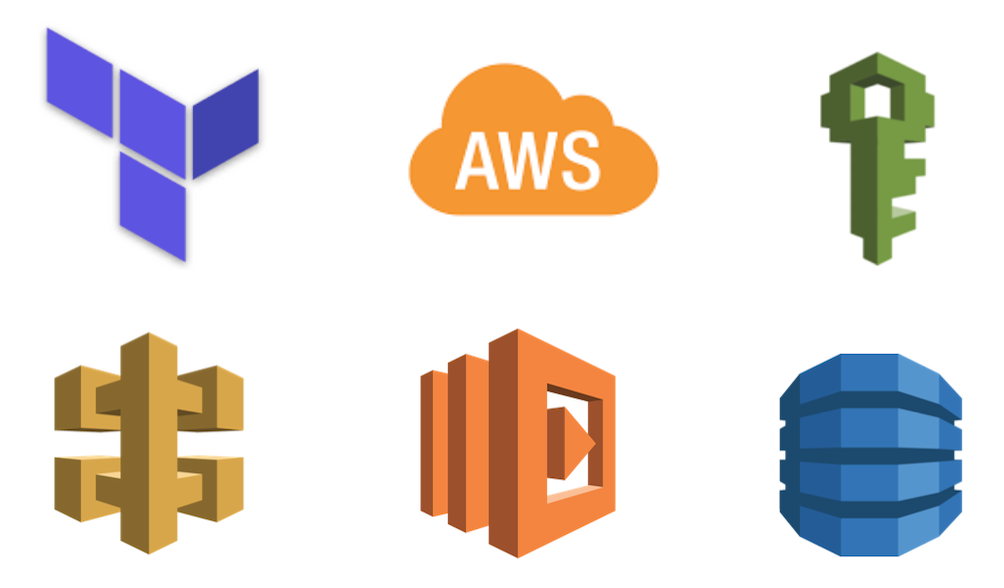
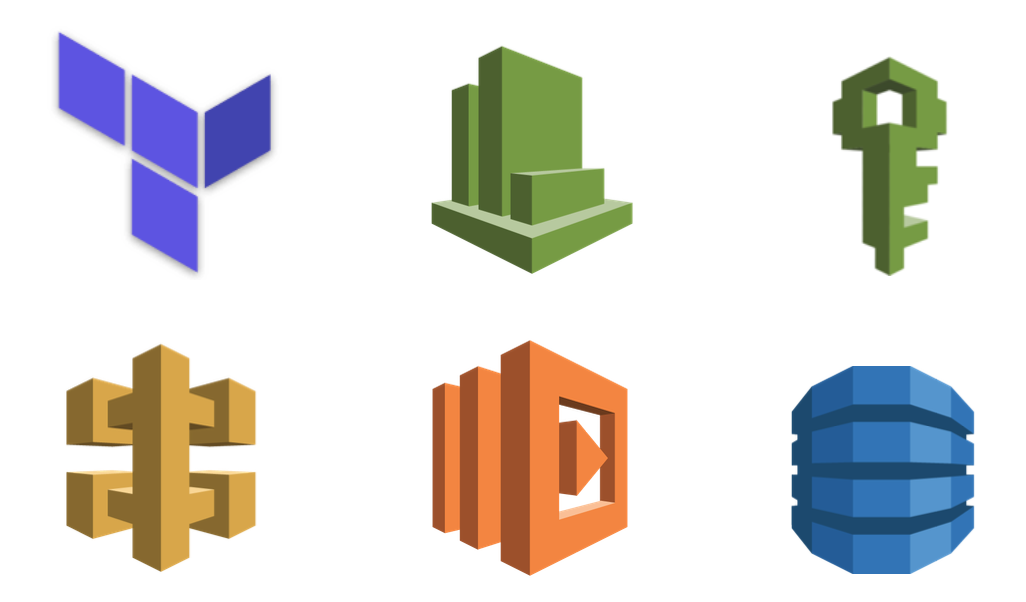
Update featured-image and IaC intro + add POST body

diff --git a/_posts/2019-01-14-Infrastructure-as-code-with-terraform-and-aws-serverless.md b/_posts/2019-01-14-Infrastructure-as-code-with-terraform-and-aws-serverless.md
@@ -31,9 +31,19 @@ And you just defined all of that infrastructure using IaC.
 
 > IaC is a key practice of DEVOPS teams and integrates as part of the CI/CD pipeline.
 
+A great Infrastructure as Code tool is Terraform by HashiCorp.
+([https://www.terraform.io/](https://www.terraform.io/){:target="_blank" rel="noopener noreferrer"})  
+Personally I use it to provide and maintain infrastructure on AWS.
+And I've had a great experience doing that.
+
+<div style="text-align: center;">
+  <img src="/img/2019-01-14-Infrastructure-as-code-with-terraform-and-aws-serverless/overview.png" width="100%" height="100%">
+</div>
+
 # Introduction and demo
 I will demonstrate IaC by working out an example. 
 We are going to set up an application on AWS.
+I provisioned the **code on GitLab**: [https://gitlab.com/nxtra/codingtips-blog](https://gitlab.com/nxtra/codingtips-blog){:target="_blank" rel="noopener noreferrer"}  
 A user can enter a coding tip and see all the coding tips that other users have entered.
 The tips are stored in a NoSQL database which is AWS DynamoDB.
 Storing and retrieving these tips is done by the Lambda Functions which fetch or put the tips from and to the database.
@@ -224,26 +234,6 @@ resource "aws_iam_role_policy" "dynamodb-lambda-policy"{
 }
 EOF
 }
-
-resource "aws_iam_role_policy" "cloudwatch-lambda-policy"{
-  name = "cloudwatch-lambda-policy"
-  role = "${aws_iam_role.lambda-iam-role.id}"
-  policy = "${data.aws_iam_policy_document.api_gateway_logs_policy_document.json}"
-}
-
-data "aws_iam_policy_document" "api_gateway_logs_policy_document" {
-  statement {
-    actions = [
-      "logs:CreateLogStream",
-      "logs:CreateLogGroup",
-      "logs:PutLogEvents"
-    ],
-    resources = [
-      "arn:aws:logs:*:*:*"
-    ]
-  }
-}
-
 ```
 
 In the example above the first resource that is defined is an `aws_iam_role`.
@@ -258,8 +248,8 @@ A couple of things to notice:
 * In the `statement` attribute of the `aws_iam_role_policy` we grant (Effect attr.) permission to do some actions (Action attr.) on a certain Resource (Resource attr.)
 * A resource is referenced by its *arn* or *Amazon Resource Name* which uniquely identifies this resource on aws
 * There are two ways to specify an `aws_iam_role_policy`: 
-    * using the *until EOF* syntax
-    * using a separate Terraform `data` element
+    * using the *until EOF* syntax (like I did here)
+    * using a separate Terraform `aws_iam_policy_document` element that is coupled to the `aws_iam_role_policy`
 * The dynamodb-lambda-policy allows all actions on the specified DynamoDB resource because under the action attribute it states `dynamodb:*`
 You could make this more restricted and mention actions like 
 
@@ -416,13 +406,13 @@ definitions:
       - tip
 ```
 
-If you do not know swagger yet copy the above an paste it in the online swagger editor.  
-[Swagger Editor](https://editor.swagger.io/){:target="_blank" rel="noopener noreferrer"} 
+If you do not know Swagger yet copy the above and paste it in the online swagger editor.
+([Swagger Editor](https://editor.swagger.io/){:target="_blank" rel="noopener noreferrer"}) 
 
 This will grant you a nice visual overview of the api definition.
 
 <div style="text-align: center;">
-  <img src="/img/2019-01-14-Infrastructure-as-code-with-terraform-and-aws-serverless/swagger.png" width="70%" height="70%">
+  <img src="/img/2019-01-14-Infrastructure-as-code-with-terraform-and-aws-serverless/swagger.png" width="60%" height="60%">
 </div>
 
 There is only one AWS specific thing in the swagger specification above and that is `x-amazon-apigateway-integration`.
@@ -488,6 +478,15 @@ Here I am running `terraform apply` within the repository linked to this blog.
 Nice, it worked.
 And I only told Terraform about the infrastructure I wanted.
 The whole setup process goes automatically!
+You can now use the outputted URL to GET and POST coding tips.
+The body of the POST should look like:
+```json
+{
+  "author": "Nick",
+  "tip": "Short sessions with frequent brakes",
+  "category": "Empowerment"
+}
+```
 
 When you need to couple the API endpoints to a frontend of your own design, you need to set the CORS headers correctly.
 If you want this challenge, there is an other branch in the repository (cors-enabled) where I worked this out.
@@ -496,7 +495,7 @@ Happy coding folks, Code that Infrastructure!
 
 # Resources and further reading
 * Terraform website: [Terraform.io](https://www.terraform.io/){:target="_blank" rel="noopener noreferrer"}
-* Terraform-Lambda-APIGateway: [lean.hashicorp.com](https://learn.hashicorp.com/terraform/aws/lambda-api-gateway){:target="_blank" rel="noopener noreferrer"}
+* Terraform-Lambda-APIGateway: [learn.hashicorp.com](https://learn.hashicorp.com/terraform/aws/lambda-api-gateway){:target="_blank" rel="noopener noreferrer"}
 * Swagger editor: [editor.swagger.io](https://editor.swagger.io/){:target="_blank" rel="noopener noreferrer"}
 * Swagger official website: [swagger.io](https://swagger.io/){:target="_blank" rel="noopener noreferrer"}
 
